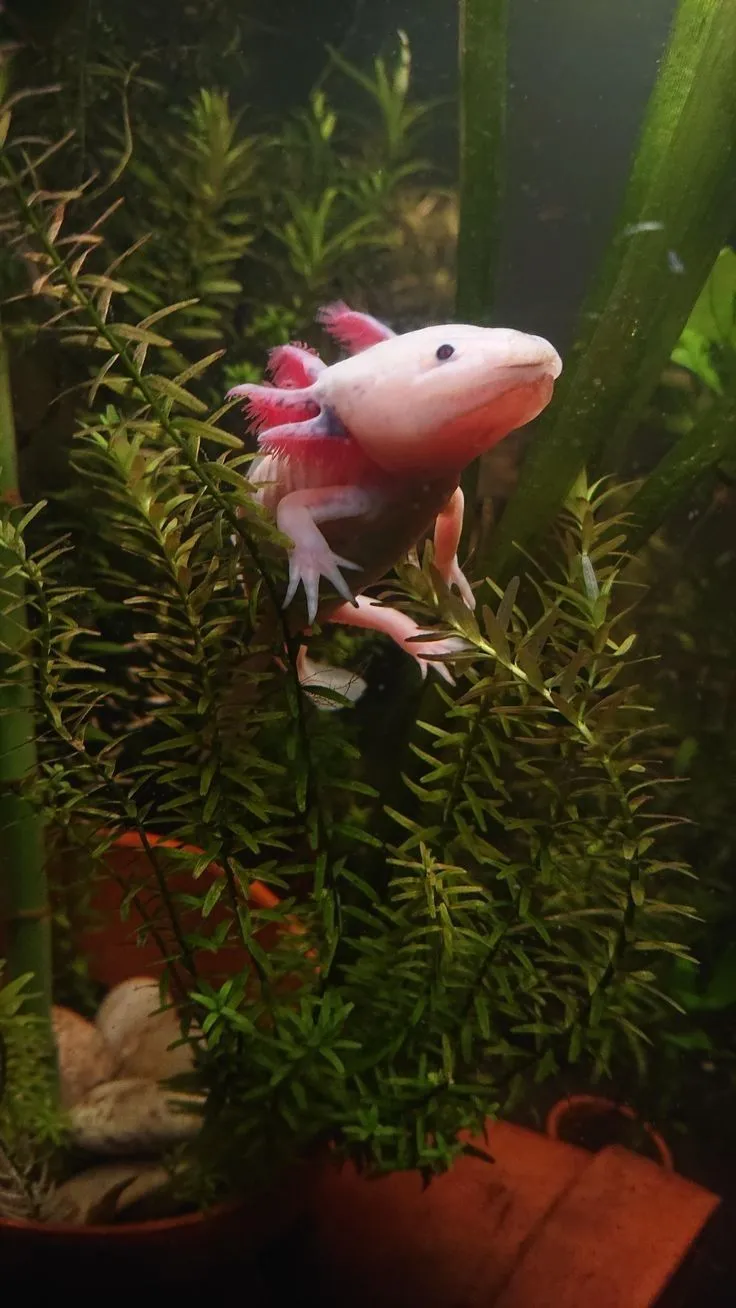
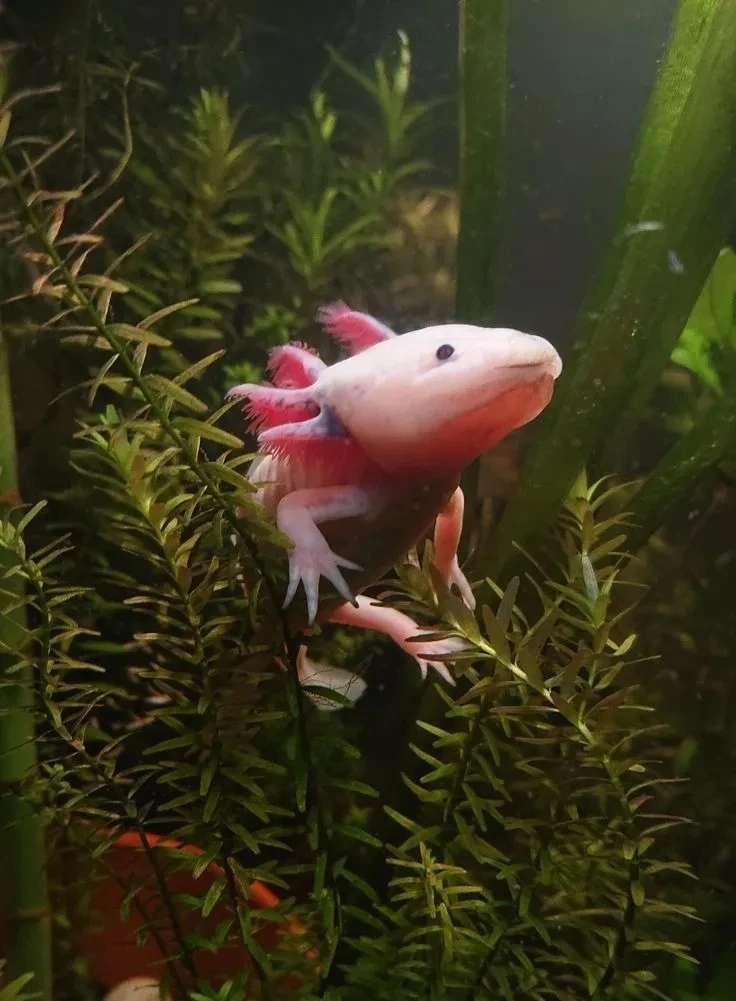
added color and data

diff --git a/place.html b/place.html
@@ -3,7 +3,7 @@
 <head>
     <meta charset="UTF-8">
     <meta name="viewport" content="width=device-width, initial-scale=1.0">
-    <title>Place</title>
+    <title>Mexico</title>
     <meta name="description" content="Place I wish to visit">
     <meta name="author" content="Yamsir Hernandez Perez">
     <script></script>
@@ -13,7 +13,9 @@
     <link href="https://fonts.googleapis.com/css2?family=Roboto:ital,wght@0,100..900;1,100..900&display=swap" rel="stylesheet">
 </head>
 <body>
-    <header>Mexico</header>
+    <header>
+        <h1>Mexico</h1>
+    </header>
     <main>
         <picture>
             <source srcset="images/axolotlMobile.webp" media="(max-width: 650px)">
@@ -23,17 +25,19 @@
         <div class="sections">
             <section class="data section">
                 <h2 >Data</h2>
-                <p>Label: Value</p>
-                <p>Label: Value</p>
-                <p>Label: Value</p>
-                <p>Label: Value</p>
-                <p>Label: Value</p>
-                <p>Label: Value</p>
-                <p>Label: Value</p>
-                <p>Label: Value</p>
+                <p class="dataTitle">Area: <span class="dataInfo">1,964,375 km²</span></p>
+                <p class="dataTitle">Population: <span class="dataInfo">132,274,337</span></p>
+                <p class="dataTitle">Capital: <span class="dataInfo">Ciudad de México</span></p>
+                <p class="dataTitle">Languages: <span class="dataInfo">Spanish</span></p>
+                <p class="dataTitle">Currency: <span class="dataInfo">1,964,375 km²</span></p>
+                <p class="dataTitle">Time Zone: <span class="dataInfo">1,964,375 km²</span></p>
+                <p class="dataTitle">Calling Code: <span class="dataInfo">1,964,375 km²</span></p>
+                <p class="dataTitle">Internet TLD: <span class="dataInfo">1,964,375 km²</span></p>
+
             </section>
             <section class="weather section">
-                <h2>Weather</h2>
+                <h2>Weather<img src="/wdd131/images/weatherIcon.svg" class="svg" alt="Weather icon">
+                </h2>
                 <p>Label: Value</p>
                 <p>Label: Value</p>
                 <p>Label: Value</p>

diff --git a/styles/place.css b/styles/place.css
@@ -1,3 +1,11 @@
+:root {
+    --main-color: #d21034;
+    --second-color: #007849;
+
+}
+
+
+
 * {
     margin: 0;
     padding: 0;
@@ -13,11 +21,28 @@ body {
 }
 
 header {
-    background: #ccc;
+    background: var(--main-color);
     padding: 10px;
     font-size: 24px;
     font-weight: bold;
     width: 100%;
+    border-bottom:15px solid var(--second-color);
+}
+
+h1 {
+    color: white;
+}
+
+h2 {
+    color: black;
+    margin: 15px;
+    font-size: xx-large;
+}
+
+.svg {
+    width: 40px;
+    margin: 0 auto;
+
 }
 
 main {
@@ -54,6 +79,15 @@ picture img{
     padding: 10px;
 }
 
+.dataTitle {
+    font-weight: bold;
+
+}
+
+.dataInfo {
+    font-weight: lighter;
+}
+
 .data, .weather {
     width: 100%;
 }
@@ -82,5 +116,12 @@ picture img{
         background: rgba(255, 255, 255, 0.9);
         border: 2px solid #000;
         padding: 10px;
+    }
+
+    h2 {
+        background-color: var(--second-color);
+        padding: 15px;
+        color: white;
+        text-align: start;
     }
 }
